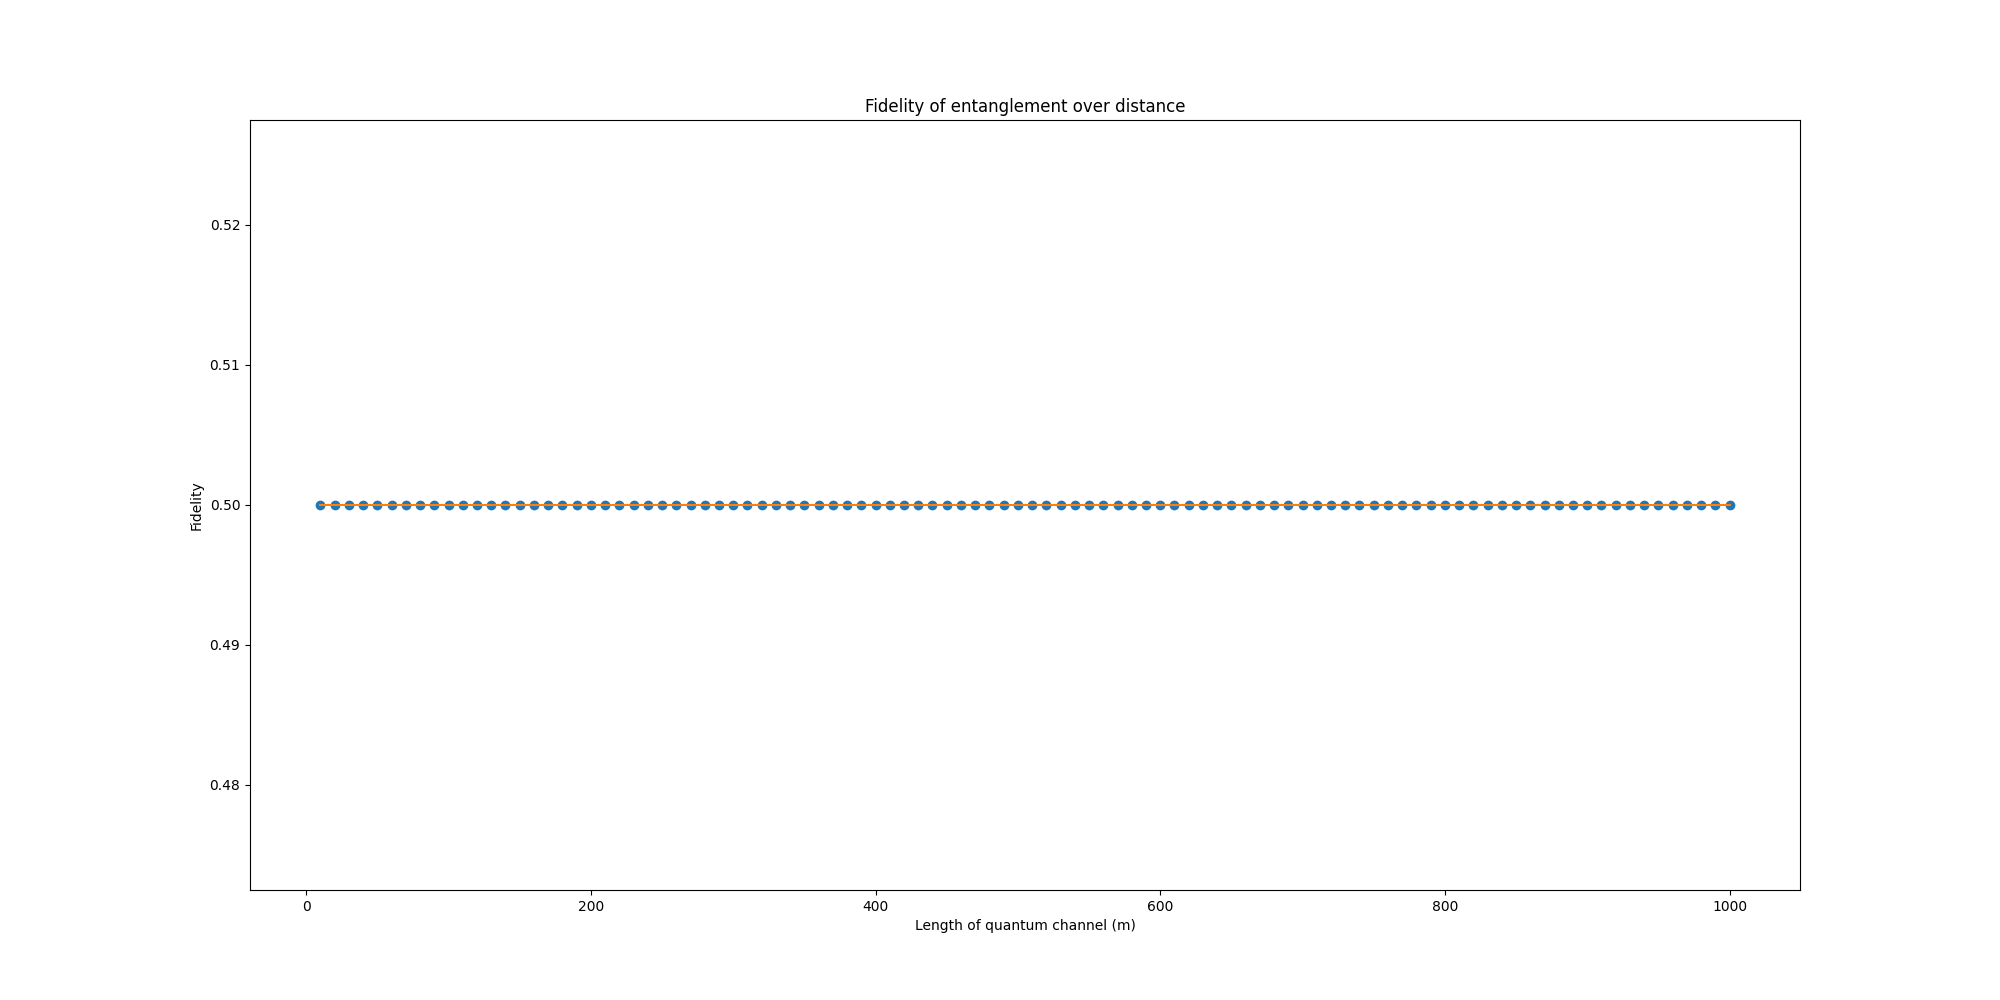
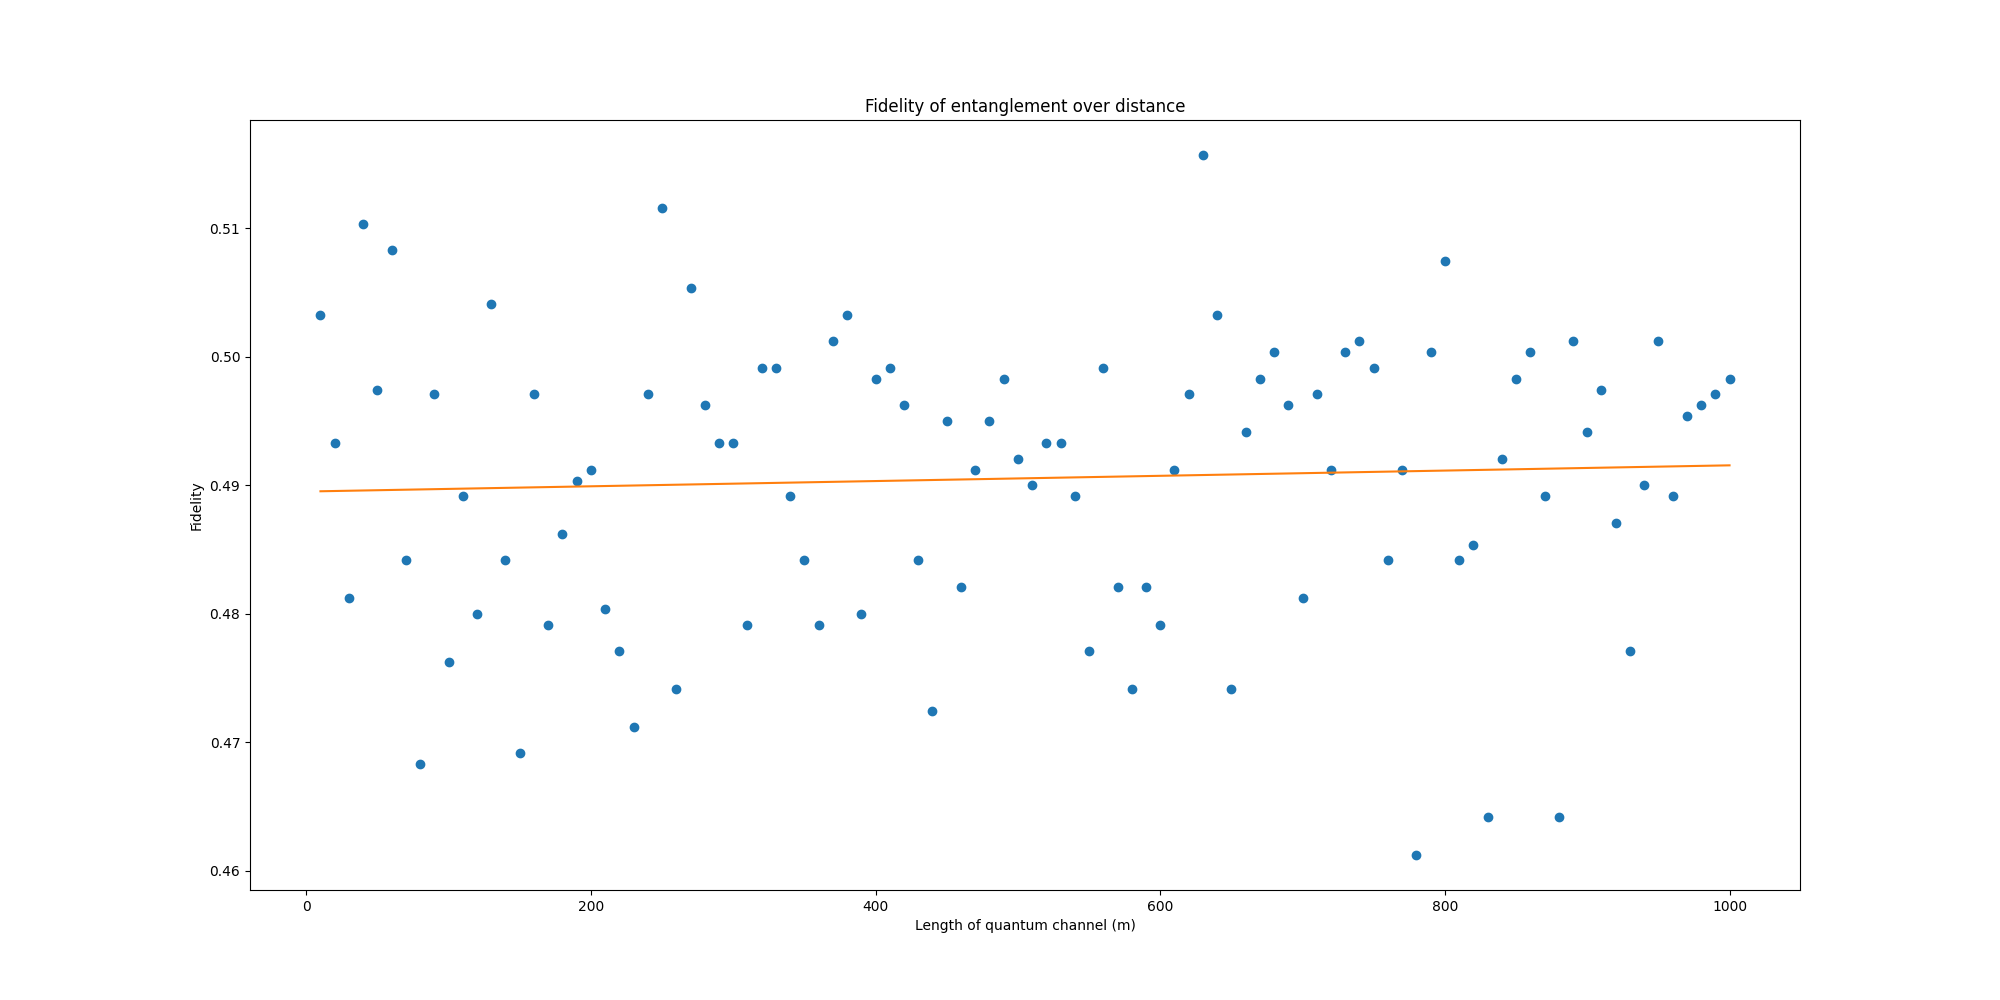
minor

diff --git a/src/network/StarNetwork.py b/src/network/StarNetwork.py
@@ -424,7 +424,7 @@ class StarNetwork:
         """
         try:
             if node1 == self._destinations_n - 1 or node2 == self._destinations_n - 1:
-                self._network.subcomponents["Repeater"].qmemory.execute_instruction(INSTR_SWAP, [0, 1])
+                self._network.subcomponents["Repeater"].qmemory.execute_instruction(INSTR_MEASURE_BELL, [0, 1])
         except MemPositionEmptyError:
             return
 
